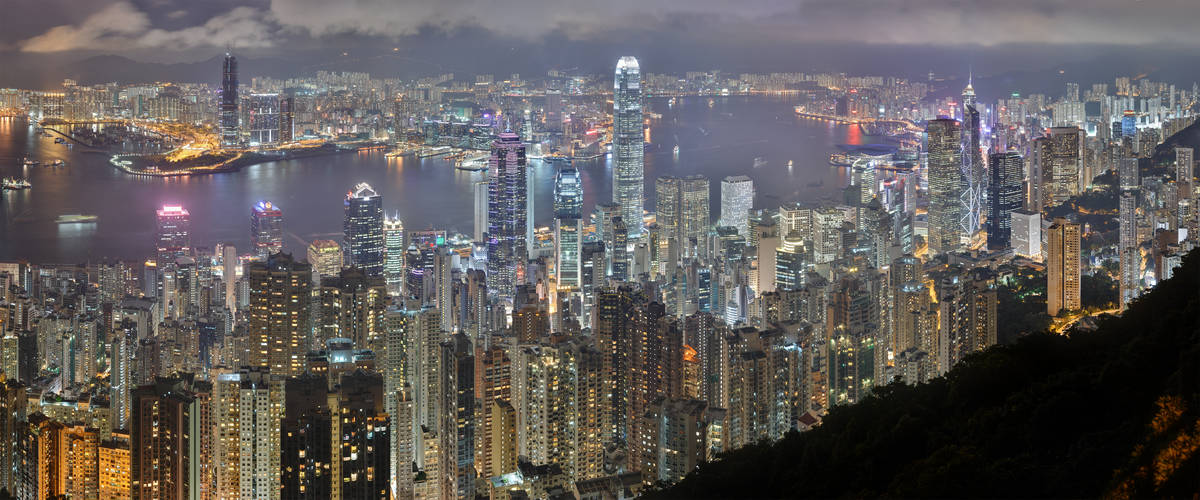
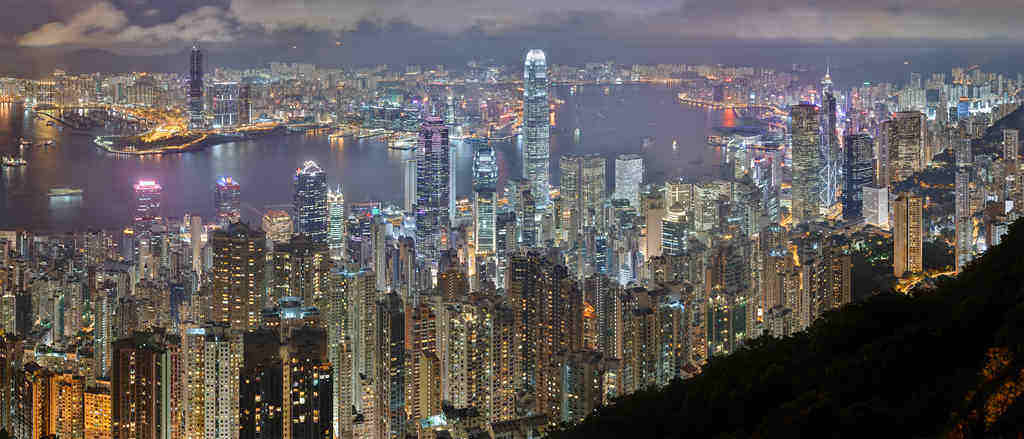
Added finishing touches to several pages

diff --git a/index.html b/index.html
@@ -58,13 +58,63 @@
 
   <body>
     <div class="background-image-container">
-      <img src="images/trinity.jpg" class="center">
+      <img id="bg-image" src="images/background/trinity.jpg" class="center">
       <div class="centered-text"><h1>Welcome <span class="nowrap-title">
         &#27489;&#36814; ! </span></h1></div>
       <div class="img-location"><p>Trinity College</p></div>
     </div>
 
+    <script type="text/javascript" src="js/common.js">
+    </script>
+    <script type="text/javascript">
+      loadFullImage(fullImageSrc="images/background/trinity.jpg")
+    </script>
+
     <div class="line-separator"></div>
+
+    <div class="container">
+      <div id="home-title">
+        <h2>Glad you came! Happy to have you
+          <i class="far fa-smile-wink"></i></h2>
+      </div>
+      <p>
+        Welcome to the Trinity College Chinese Students Association's
+        newly launched website! We will be posting everything TCCSA here
+        so stay tuned (bookmark) and check often!
+      </p>
+
+      <div class="row">
+        <div class="col-md-5">
+          <img src="images/team.jpg"></img>
+        </div>
+
+        <div class="col-md-7">
+          <div class="home-card">
+            <p>
+              2017-2018 was another fruitful academic year for us. We oversaw several
+              successful events including the second ever Chinese New Year High Table
+              dinner at Trinity College as well as the Lunar Lantern Festival collab
+              with UTMAS and PoC@Trin. These were some of the biggest events in the
+              history of our club, featuring record numbers of participants. We
+              hope to better our success this following academic year and work
+              on the continued growth and expansion of our club.
+            </p>
+            <p>
+              And of course, we need to thank all of you that came to our events.
+              All of our events would not have been possible if it weren't for
+              you lot. The more that come, the better the events become for
+              everyone.
+            </p>
+            <p>
+              In return for your awesomeness and support, this year
+              we promise you the biggest and most badass events to date
+              <i class="fas fa-hand-peace"></i>
+            </p>
+        </div>
+        </div>
+      </div>
+
+    </div>
 
     <footer class="custom-footer">
           <div class="social-media">
@@ -75,9 +125,6 @@
             <p class="copyright">Copyright© 2018 Trinity College Chinese Students Association</p>
       <!-- <span class="copyright">Copyright© 2018 Trinity College Chinese Students Association<span> -->
     </footer>
-
-
-
 
     <!-- Optional JavaScript -->
     <!-- jQuery first, then Popper.js, then Bootstrap JS -->

diff --git a/about.html b/about.html
@@ -60,11 +60,17 @@
 
   <body>
     <div class="background-image-container">
-      <img src="images/huangshan.jpg" class="center">
+      <img id="bg-image" src="images/background/huangshan.jpg" class="center">
       <div class="centered-text"><h1><span class="nowrap">About Us</span>
         <span class="nowrap">&#38364;&#26044;&#25105;&#20497;</span></h1></div>
       <div class="img-location"><p><span class="nowrap">Mt. Huangshan</span></p></div>
     </div>
+
+    <script type="text/javascript" src="js/common.js">
+    </script>
+    <script type="text/javascript">
+      loadFullImage(fullImageSrc="images/background/huangshanfull.jpg")
+    </script>
 
     <div class="line-separator"></div>
     <div class="container">

diff --git a/contact.html b/contact.html
@@ -58,11 +58,17 @@
 
   <body>
     <div class="background-image-container">
-      <img src="images/xinjiang.jpg" class="center">
+      <img id="bg-image" src="images/background/birdsnest.jpg" class="center">
       <div class="centered-text"><h1>Contact Us<span class="nowrap-title">
         &#32879;&#32363;&#25105;&#20497; </span></h1></div>
-      <div class="img-location"><p>Xinjiang</p></div>
+      <div class="img-location"><p>Bird's Nest Beijing</p></div>
     </div>
+
+    <script type="text/javascript" src="js/common.js">
+    </script>
+    <script type="text/javascript">
+      loadFullImage(fullImageSrc="images/background/birdsnestfull.jpg")
+    </script>
 
     <div class="line-separator"></div>
 

diff --git a/events.html b/events.html
@@ -58,11 +58,17 @@
 
   <body>
     <div class="background-image-container">
-      <img src="images/jiufen.jpg" class="center">
+      <img id="bg-image" src="images/background/yangshuo.jpg" class="center">
       <div class="centered-text"><h1>Our Events<span class="nowrap-title">
         &#27963;&#21205; </span></h1></div>
-      <div class="img-location"><p>Jiufen Taiwan</p></div>
+      <div class="img-location"><p>Yangshuo Guangxi</p></div>
     </div>
+
+    <script type="text/javascript" src="js/common.js">
+    </script>
+    <script type="text/javascript">
+      loadFullImage(fullImageSrc="images/background/yangshuofull.jpg")
+    </script>
 
     <div class="line-separator"></div>
 

diff --git a/team.html b/team.html
@@ -58,12 +58,19 @@
 
 
   <body>
+
     <div class="background-image-container">
-      <img src="images/hongkong.jpg" class="center">
+      <img id="bg-image" src="images/background/hongkong.jpg" class="center">
       <div class="centered-text"><h1>The Team<span class="nowrap-title">
         &#22296;&#38538; </span></h1></div>
       <div class="img-location"><p><span class="nowrap">Hong Kong</span></p></div>
     </div>
+
+    <script type="text/javascript" src="js/common.js">
+    </script>
+    <script type="text/javascript">
+      loadFullImage(fullImageSrc="images/background/hongkongfull.jpg")
+    </script>
 
     <div class="line-separator"></div>
 

diff --git a/css/index.css b/css/index.css
@@ -1,22 +1,25 @@
-body{
-    font-family: 'Spectral', 'KaiTi', 'STSong', Arial, serif;
-    color: darkred;
+#home-title h2{
+  text-align: center;
+  padding-top: 40px;
+  padding-bottom: 40px;
+  font-weight: bold;
 }
 
-span.characters-title {
-  white-space: nowrap;
+#home-title i{
+  color: orange;
 }
 
-.banner {
+p {
+  font-size: 18px;
+}
+
+.container img {
+  padding-top: 50px;
   width: 100%;
-  padding-top: 25px;
-  padding-left: 25px;
-  display: inline-block;
+  padding-bottom: 50px;
 }
 
-.logo {
-  max-width: 125px;
-  margin-right: 20px;
-  margin-bottom: 10px;
-  float: right;
+.home-card {
+  padding-top: 50px;
+  padding-bottom: 50px;
 }

diff --git a/js/common.js b/js/common.js
@@ -1,0 +1,10 @@
+function loadFullImage(fullImageSrc) {
+  var image = document.getElementById('bg-image')
+  var fullImage = document.createElement("img")
+
+  fullImage.onload = function() {
+    image.src = this.src
+  }
+
+  fullImage.src = fullImageSrc
+}

diff --git a/css/about.css b/css/about.css
@@ -2,6 +2,10 @@ p {
   font-size: 20px;
 }
 
+h2 {
+  padding-top: 40px;
+}
+
 .info-card {
   padding-top: 20px;
   padding-bottom: 40px;
